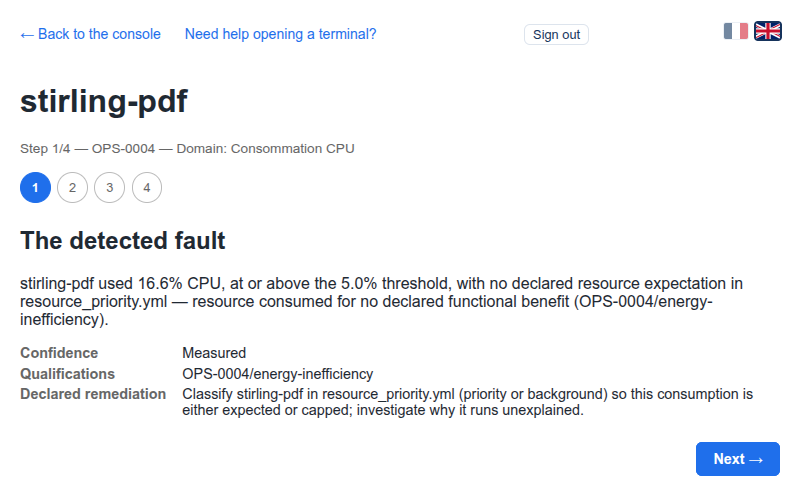
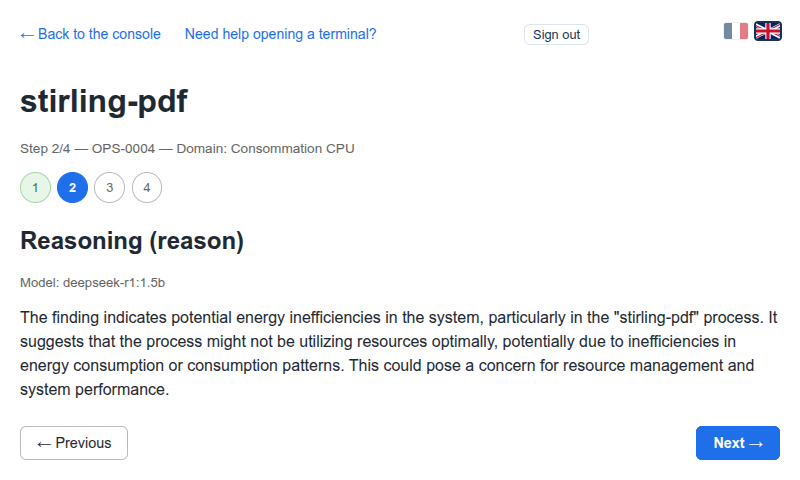
docs(readme): the troubleshooting screenshot shows the AI's reasoning
The owner's capture of step 2, 2026-10-04 evening: the local model
(deepseek-r1:1.5b) reasoning about a real finding, answered from the
1.8.0 container through the host's network — a better picture of the
assistant than the finding alone. Name masked, chrome cropped.

Claude-Session: https://claude.ai/code/session_01RFbKUBVp978sLAvN2AuDXP

diff --git a/README.md b/README.md
@@ -285,8 +285,9 @@ confidence, author and validator, filtered by status and by name.
 
 ![Explications](docs/assets/screenshots/explications.png)
 
-**Troubleshooting assistant** — a real finding, walked through step by
-step, before the local AI model is asked anything.
+**Troubleshooting assistant** — a real finding walked through step by
+step; here the local AI model's reasoning about it, an explanation never
+taken as a source of truth.
 
 ![The troubleshooting assistant](docs/assets/screenshots/troubleshooting.png)
 
